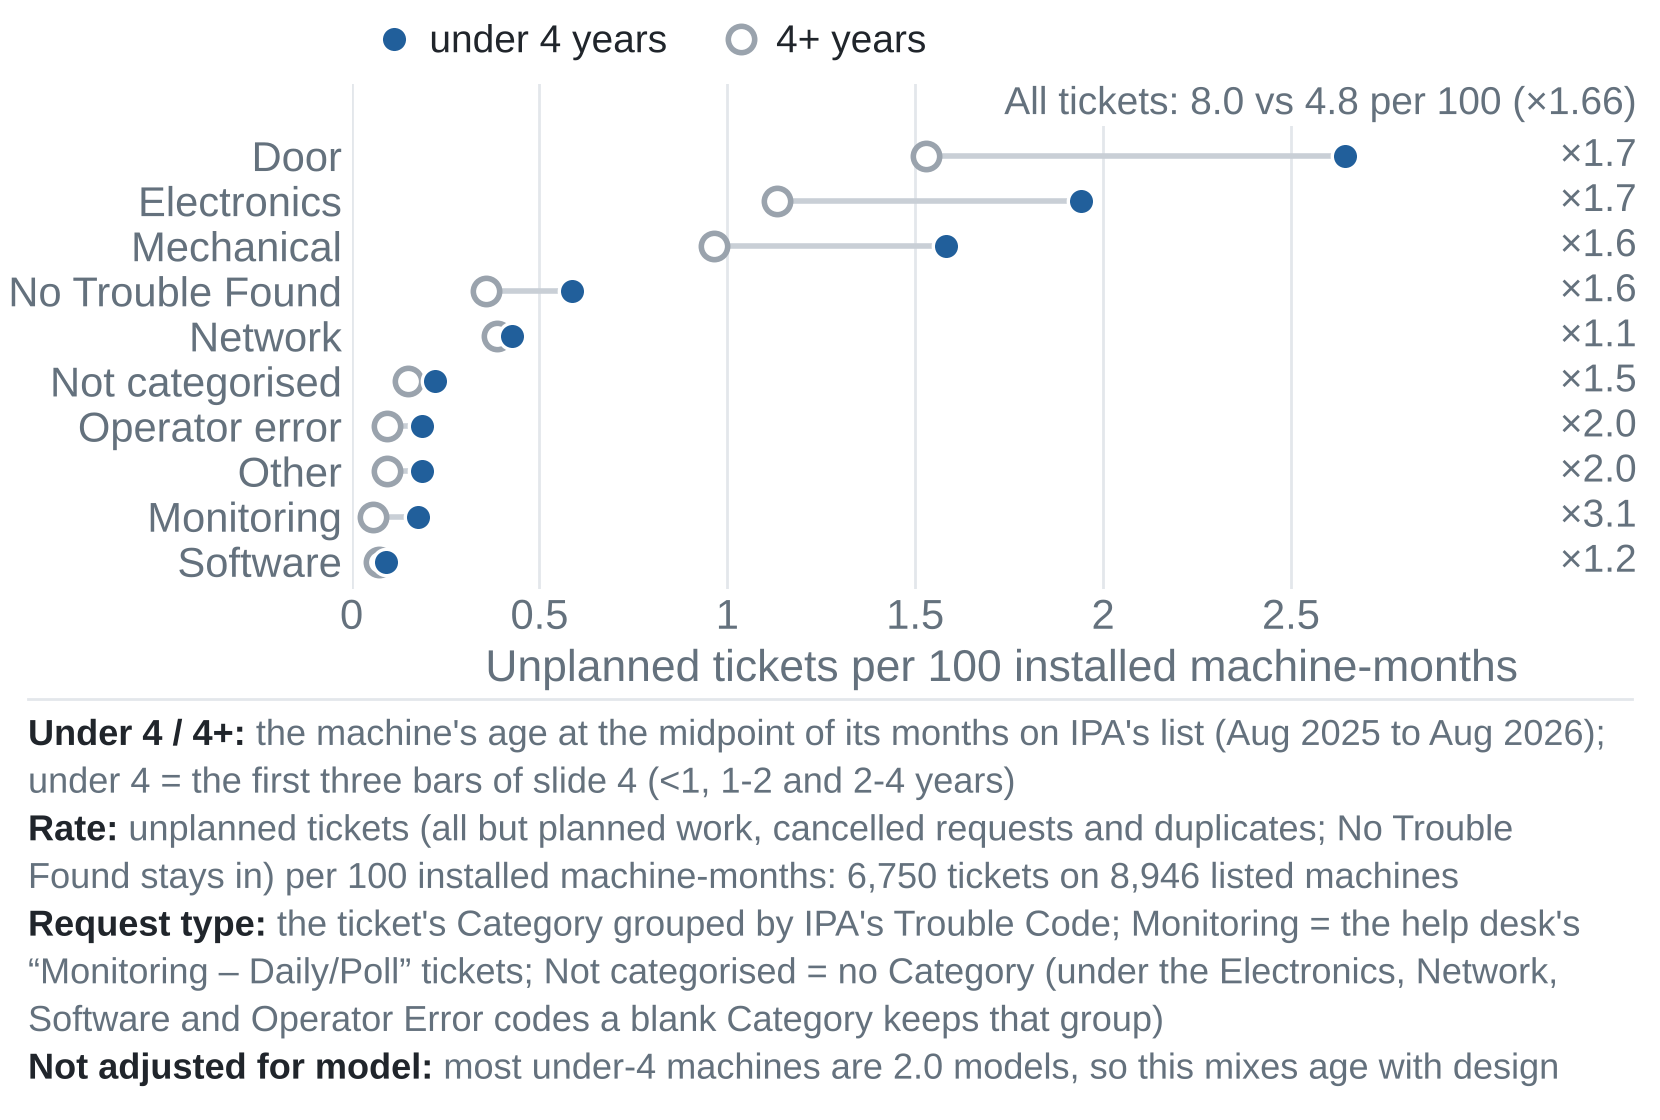
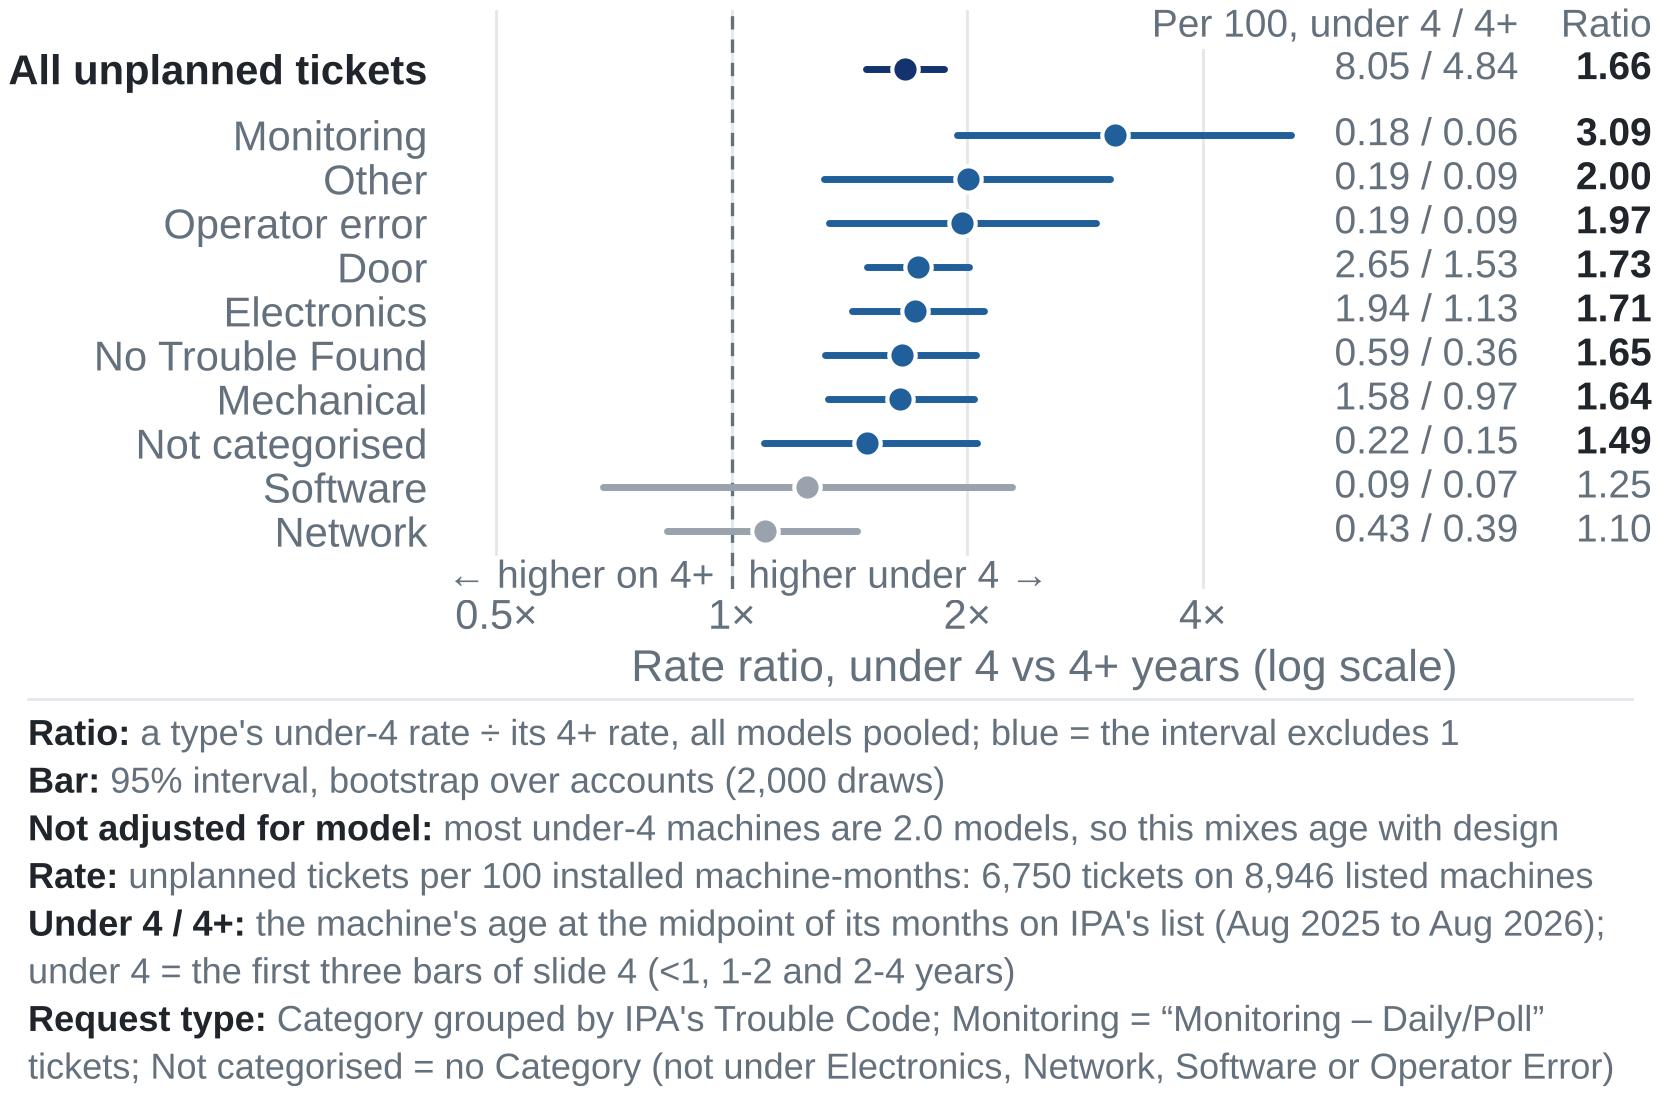
sl_18 (slide 4a, left): rate ratios in the dashed-line layout of the other comparison charts
IPA asked for slide 4a's first chart to match the deck's other comparison charts (sl_19, sl_20, sl_21, sl_23). It
now plots each request type's crude rate ratio, under-4 rate over 4+ rate with all models pooled, as a dot with its
95% account-bootstrap interval. A dashed line marks 1x, the x axis is log scale and a value column sits on the right,
as in sl_19. An 'All unplanned tickets' row (1.66) sits on top. Blue marks an interval that excludes 1; Network and
Software stay gray. The two rates per 100 stay in a column beside the ratio. Every plotted value is checked against
ag_type_rates.csv (120 checks).

followup_terms.py: a new 'rate_ratio_crude' term; 'rate' and 'request_group', used only by sl_18, are shortened so
the definitions fit. docs/10: the chart table's row for sl_18.

Claude-Session: https://claude.ai/code/session_01XBD7pXL4msNy4bnuJzjzhZ

Changed region(s): [[0.0, 0.0, 1.0, 0.9688], [0.0, 0.0, 0.3994, 0.5625], [0.2765, 0.25, 0.3687, 0.3125]]

diff --git a/viz/slides/sl_18_age_type_rates.py b/viz/slides/sl_18_age_type_rates.py
@@ -1,10 +1,13 @@
 #!/usr/bin/env python3
 """Slide chart 18 (follow-up to slide 4): unplanned-ticket rates by request type, machines under 4 vs 4+ years.
 
-Rate per 100 installed machine-months by request group and age group (docs/09 §4 A1), descriptive and not adjusted
-for model: one row per request group, sorted by the under-4 rate, with the 4+ rate as a gray ring, the under-4 rate
-as a blue dot, and the crude rate ratio (under 4 ÷ 4+) in the right-hand column. The note gives all unplanned
-tickets (the 'all' row).
+The crude rate ratio by request group (docs/09 §4 A1): a group's unplanned tickets per 100 installed machine-months
+on under-4 machines ÷ the same rate on 4+ machines, all models pooled (descriptive, not adjusted for model), with its
+95% account-bootstrap interval. Drawn in the layout of the other comparison charts (sl_19, sl_20): one dot and bar per
+row on a log scale, a dashed line at 1 (no difference) and the numbers on the right. All unplanned tickets sit on
+top, set apart by a gap, then the ten groups by ratio, highest first. Blue = the interval excludes 1, gray = it
+includes 1; the All row in navy. The right-hand columns give the two rates (Per 100, under 4 / 4+) and the ratio,
+bold where the interval excludes 1.
 
 Input:  verification/outputs/followups/ag_type_rates.csv, followups_summary.json
 Output: viz/figures/slides/sl_18_age_type_rates.png (half card, tall)
@@ -16,38 +19,46 @@ from pathlib import Path
 sys.path.insert(0, str(Path(__file__).resolve().parent))
 import numpy as np  # noqa: E402
 import pandas as pd  # noqa: E402
-from matplotlib.lines import Line2D  # noqa: E402
+from matplotlib.colors import to_rgba  # noqa: E402
+from matplotlib.text import Text  # noqa: E402
+from matplotlib.transforms import offset_copy  # noqa: E402
 
 import deck_style as S  # noqa: E402
 import followup_terms as T  # noqa: E402
 
 PNG = 'sl_18_age_type_rates.png'
-TERMS = ['under4', 'rate', 'request_group', 'crude']
-DOT = 90  # marker area (pt^2): about 9.5 pt across
+TERMS = ['rate_ratio_crude', 'interval', 'crude', 'rate', 'under4', 'request_group']
+ALL = 'All unplanned tickets'
+GAP = 0.5                  # extra space between the All row and the groups (rows)
+X_LO, X_HI = 0.42, 15      # x limits (log scale); the value columns sit right of every bar
+RATES_AT = -48             # right edge of the Per 100 column, in points from the axes' right edge (Ratio: the edge)
+TICKS = [0.5, 1, 2, 4]
+PIN_U4 = 'A1: under-4 rate per 100 (slide 4: 3,629 / 45,103.38)'
+PIN_P4 = 'A1: 4+ rate per 100 (slide 4: 3,121 / 64,517.91)'
 
 
-def ratio_text(v, nd=1):
-    return f'×{v:.{nd}f}'
+def excludes_one(lo, hi):
+    return lo > 1 or hi < 1
 
 
 def plot(out_dir=S.FIG_DIR):
     t = pd.read_csv(T.FU / 'ag_type_rates.csv')
-    # Highest under-4 rate at the top (y = row index, so the highest comes last); ties broken by name, A at the top.
-    d = (t[t.level == 'group'].sort_values(['under4_rate_per_100', 'type'], ascending=[True, False])
-         .reset_index(drop=True))
+    # Highest ratio at the top (y = row index, so the highest comes last); ties broken by name, A at the top.
+    d = t[t.level == 'group'].sort_values(['rate_ratio', 'type'], ascending=[True, False]).reset_index(drop=True)
     a = t[t.level == 'all'].iloc[0]
     s = T.summary()
     pins = {c['check']: c['actual'] for c in s['checks']['list']}
     S.check('sl_18 ten request groups', 10, len(d))
     S.check('sl_18 the groups are the summary\'s ten', 1, int(sorted(d.type) == sorted(s['definitions']['groups'])))
+    S.check('sl_18 one all row', 1, int((t.level == 'all').sum() == 1 and a.type == ALL))
     S.check('sl_18 groups sum to the all row, under 4', a.under4_tickets, d.under4_tickets.sum())
     S.check('sl_18 groups sum to the all row, 4+', a.plus4_tickets, d.plus4_tickets.sum())
     S.check('sl_18 every row on the same months, under 4', 0, float(np.ptp(t.under4_months)), 1e-6)
     S.check('sl_18 every row on the same months, 4+', 0, float(np.ptp(t.plus4_months)), 1e-6)
 
-    # The definition's numbers: 6,750 tickets on 8,946 listed machines.
-    rate_text = T.terms()['rate'][1]
-    m = re.search(r'([\d,]+) tickets on ([\d,]+) listed machines', rate_text)
+    # The definitions' numbers: 6,750 tickets on 8,946 listed machines; the bands and the period; 2,000 draws.
+    terms = T.terms()
+    m = re.search(r'([\d,]+) tickets on ([\d,]+) listed machines', terms['rate'][1])
     S.check('sl_18 definition: 6,750 tickets = the all row', a.under4_tickets + a.plus4_tickets,
             int(m.group(1).replace(',', '')))
     S.check('sl_18 definition: 6,750 tickets = the pinned fx_summary', pins['pin fx_summary tickets'],
@@ -56,57 +67,138 @@ def plot(out_dir=S.FIG_DIR):
             int(m.group(2).replace(',', '')))
     S.check('sl_18 definition: under 4 = the young bands <1, 1-2, 2-4', 1,
             int(s['definitions']['young_bands'] == ['<1', '1-2', '2-4']
-                and '(<1, 1-2 and 2-4 years)' in T.terms()['under4'][1]))
+                and '(<1, 1-2 and 2-4 years)' in terms['under4'][1]))
     S.check('sl_18 definition: Aug 2025 to Aug 2026 = the period', 1,
             int(s['definitions']['period'] == ['2025-08-01', '2026-08-31']
-                and '(Aug 2025 to Aug 2026)' in T.terms()['under4'][1]))
-
-    # The note: all unplanned tickets, recomputed from tickets and months.
-    u_all = 100 * a.under4_tickets / a.under4_months
-    p_all = 100 * a.plus4_tickets / a.plus4_months
-    note = f'All tickets: {u_all:.1f} vs {p_all:.1f} per 100 ({ratio_text(u_all / p_all, 2)})'
-    S.check('sl_18 note: all tickets under 4 (8.0)', u_all, float(note.split()[2]), 0.05)
-    S.check('sl_18 note: all tickets 4+ (4.8)', p_all, float(note.split()[4]), 0.05)
-    S.check('sl_18 note: rate ratio (x1.66)', u_all / p_all, float(note.split('×')[1].rstrip(')')), 0.005)
-    S.check('sl_18 note: under-4 rate = the CSV', u_all, a.under4_rate_per_100, 1e-9)
-    S.check('sl_18 note: 4+ rate = the CSV', p_all, a.plus4_rate_per_100, 1e-9)
-    S.check('sl_18 note: ratio = the CSV', u_all / p_all, a.rate_ratio, 1e-9)
+                and '(Aug 2025 to Aug 2026)' in terms['under4'][1]))
+    S.check('sl_18 definition: 2,000 bootstrap draws', s['n_boot'],
+            int(re.search(r'\(([\d,]+) draws\)', terms['interval'][1]).group(1).replace(',', '')))
+    S.check('sl_18 definition: the colour rule as drawn (blue = the interval excludes 1)', 1,
+            int('blue = the interval excludes 1' in terms['rate_ratio_crude'][1]))
 
     fig, ax = S.figure(S.HALF_TALL)
+    fig.set_dpi(S.DPI)                           # the layout checks measure in output pixels
     n = len(d)
-    XV = 3.42                                    # the value column (right-aligned)
-    for i, r in d.iterrows():
+    y_all = n + GAP
+    rows = [(i, r, False) for i, r in d.iterrows()] + [(y_all, a, True)]
+    yax = ax.get_yaxis_transform()               # x in axes fractions, y in data: the Ratio column at x = 1
+    rax = offset_copy(yax, fig=fig, x=RATES_AT, units='points')   # the Per 100 column
+    values = []                                  # (row type, [its value texts])
+    for y, r, is_all in rows:
         u = 100 * r.under4_tickets / r.under4_months
         p = 100 * r.plus4_tickets / r.plus4_months
+        ratio = u / p
         S.check(f'sl_18 {r.type} under-4 rate = 100 x tickets / months', u, r.under4_rate_per_100, 1e-9)
         S.check(f'sl_18 {r.type} 4+ rate = 100 x tickets / months', p, r.plus4_rate_per_100, 1e-9)
-        S.check(f'sl_18 {r.type} rate ratio = the CSV', u / p, r.rate_ratio, 1e-9)
-        label = ratio_text(u / p)
-        S.check(f'sl_18 {r.type} label {label}', u / p, float(label[1:]), 0.05)
-        ax.plot([p, u], [i, i], color=S.GRAY_LIGHT, lw=2, solid_capstyle='butt', zorder=1)
-        ax.scatter(p, i, s=DOT, facecolor=S.WHITE, edgecolor=S.GRAY, linewidth=2, zorder=2)
-        ax.scatter(u, i, s=DOT, color=S.BLUE, edgecolor=S.WHITE, linewidth=1.2, zorder=3)
-        ax.text(XV, i, label, va='center', ha='right', fontsize=S.SMALL, color=S.INK2)
-    S.check('sl_18 rows sorted by the under-4 rate', 1, int(d.under4_rate_per_100.is_monotonic_increasing))
-    S.check('sl_18 every mark left of the value column (below 3)', 1,
-            int(d[['under4_rate_per_100', 'plus4_rate_per_100']].max().max() < 3))
+        S.check(f'sl_18 {r.type} rate ratio = the CSV', ratio, r.rate_ratio, 1e-9)
+        S.check(f'sl_18 {r.type} interval contains the estimate', 1, int(r.rate_ratio_lo <= ratio <= r.rate_ratio_hi))
+        S.check(f'sl_18 {r.type} interval inside the axes ({X_LO} to {X_HI})', 1,
+                int(X_LO < r.rate_ratio_lo and r.rate_ratio_hi < X_HI))
+        sig = excludes_one(r.rate_ratio_lo, r.rate_ratio_hi)
+        colour = S.NAVY if is_all else S.BLUE if sig else S.GRAY
+        ax.plot([r.rate_ratio_lo, r.rate_ratio_hi], [y, y], color=colour, lw=2.5, solid_capstyle='round', zorder=2,
+                gid=r.type)
+        ax.scatter(ratio, y, s=90, color=colour, zorder=3, edgecolor=S.WHITE, linewidth=1.5, gid=r.type)
+        label = f'{ratio:.2f}'
+        rates = f'{u:.2f} / {p:.2f}'
+        S.check(f'sl_18 {r.type} label {label}', ratio, float(label), 0.005)
+        S.check(f'sl_18 {r.type} label {rates}: under 4', u, float(rates.split(' / ')[0]), 0.005)
+        S.check(f'sl_18 {r.type} label {rates}: 4+', p, float(rates.split(' / ')[1]), 0.005)
+        values.append((r.type, [
+            ax.text(1, y, label, transform=yax, va='center', ha='right', fontsize=S.SMALL,
+                    color=S.INK if sig else S.INK2, weight='bold' if sig else 'normal'),
+            ax.text(1, y, rates, transform=rax, va='center', ha='right', fontsize=S.SMALL, color=S.INK2)]))
 
-    ax.text(XV, n - 1 + 1.15, note, ha='right', va='center', fontsize=S.SMALL, color=S.INK2,
-            bbox={'boxstyle': 'square,pad=0.1', 'facecolor': S.WHITE, 'edgecolor': 'none'})  # masks the grid
-    ax.set_xlim(0, XV + 0.04)
-    ax.set_xticks([0, 0.5, 1, 1.5, 2, 2.5])
-    ax.set_xticklabels(['0', '0.5', '1', '1.5', '2', '2.5'])
-    ax.set_yticks(np.arange(n))
-    ax.set_yticklabels(d.type)
-    ax.set_ylim(-0.6, n - 1 + 1.6)
+    # The All row: the CSV's own numbers, and slide 4's (pinned in followups.py).
+    S.check('sl_18 all row: 6,750 tickets', 6750, a.under4_tickets + a.plus4_tickets)
+    S.check('sl_18 all row: under-4 rate = slide 4 (8.05)', pins[PIN_U4], a.under4_rate_per_100, 1e-5)
+    S.check('sl_18 all row: 4+ rate = slide 4 (4.84)', pins[PIN_P4], a.plus4_rate_per_100, 1e-5)
+    S.check('sl_18 all row: rate ratio = slide 4 (1.66)', pins[PIN_U4] / pins[PIN_P4], a.rate_ratio, 1e-5)
+    # Sort order: highest ratio at the top, the All row above every group.
+    S.check('sl_18 rows sorted by the rate ratio, highest at the top', 1, int(d.rate_ratio.is_monotonic_increasing))
+    S.check('sl_18 the All row above the groups', 1, int(y_all > n - 1))
+    # What was drawn, read back: each bar spans its CSV interval and each dot sits at its CSV ratio, in its row.
+    csv = {r.type: (y, r) for y, r, _ in rows}
+    bars = {ln.get_gid(): ln for ln in ax.lines if ln.get_gid()}
+    dots = {c.get_gid(): c for c in ax.collections if c.get_gid()}
+    S.check('sl_18 drawn: one bar and one dot per row', 1, int(sorted(bars) == sorted(dots) == sorted(csv)))
+    S.check('sl_18 drawn: bars = the CSV intervals, in their rows', 1,
+            int(all(np.allclose(bars[k].get_xdata(), [r.rate_ratio_lo, r.rate_ratio_hi], rtol=0, atol=1e-12)
+                    and np.allclose(bars[k].get_ydata(), [y, y]) for k, (y, r) in csv.items())))
+    S.check('sl_18 drawn: dots = the CSV ratios, in their rows', 1,
+            int(all(np.allclose(dots[k].get_offsets(), [[r.rate_ratio, y]], rtol=0, atol=1e-9)
+                    for k, (y, r) in csv.items())))
+    # Colour rule, read back from the drawn bars and dots: blue = the interval excludes 1, gray = it includes 1, the
+    # All row navy.
+    rule = {r.type: S.BLUE if excludes_one(r.rate_ratio_lo, r.rate_ratio_hi) else S.GRAY for _, r in d.iterrows()}
+    rule[ALL] = S.NAVY
+    S.check('sl_18 colour rule: every bar coloured by its interval', 1,
+            int({k: ln.get_color() for k, ln in bars.items()} == rule))
+    S.check('sl_18 colour rule: every dot coloured like its bar', 1,
+            int(all(np.allclose(dots[k].get_facecolor()[0], to_rgba(v)) for k, v in rule.items())))
+    S.check('sl_18 colour rule: Network and Software include 1', 1,
+            int(sorted(k for k, v in rule.items() if v == S.GRAY) == ['Network', 'Software']))
+    S.check('sl_18 colour rule: bold values = blue rows and the All row', 1,
+            int(all((texts[0].get_fontweight() == 'bold') == (rule[k] != S.GRAY) for k, texts in values)))
+
+    ax.axvline(1, color=S.INK2, lw=1.2, ls=(0, (4, 3)), zorder=1)
+    ax.set_xscale('log')
+    ax.set_xticks(TICKS)
+    ax.set_xticklabels([f'{v:g}×' for v in TICKS])
+    ax.set_xlim(X_LO, X_HI)
+    mask = {'boxstyle': 'square,pad=0.1', 'facecolor': S.WHITE, 'edgecolor': 'none'}  # hides the grid behind the text
+    head = [ax.text(1, y_all + 0.55, 'Per 100, under 4 / 4+', transform=rax, ha='right', va='bottom',
+                    fontsize=S.SMALL, color=S.INK2, bbox=mask),
+            ax.text(1, y_all + 0.55, 'Ratio', transform=yax, ha='right', va='bottom', fontsize=S.SMALL,
+                    color=S.INK2)]
+    ax.set_yticks(list(range(n)) + [y_all])
+    ax.set_yticklabels(list(d.type) + [ALL])
+    lab_all = ax.get_yticklabels()[-1]
+    lab_all.set_fontweight('bold')
+    lab_all.set_color(S.INK)
+    ax.set_ylim(-1.3, y_all + 1.35)
     S.style_axes(ax, grid='x', baseline=None)
-    ax.set_xlabel('Unplanned tickets per 100 installed machine-months')
-    handles = [Line2D([], [], ls='', marker='o', ms=9.5, mfc=S.BLUE, mec=S.WHITE, mew=1.2, label='under 4 years'),
-               Line2D([], [], ls='', marker='o', ms=9.5, mfc=S.WHITE, mec=S.GRAY, mew=2, label='4+ years')]
-    ax.legend(handles=handles, loc='lower left', bbox_to_anchor=(0, 1.0), ncol=2, handlelength=1.0,
-              handletextpad=0.4, columnspacing=1.4, borderaxespad=0.2, fontsize=S.SMALL)
+    ax.set_xlabel('Rate ratio, under 4 vs 4+ years (log scale)')
+    notes = [ax.text(0.95, -1.05, '← higher on 4+', ha='right', va='center', fontsize=S.SMALL, color=S.INK2,
+                     bbox=mask),
+             ax.text(1.05, -1.05, 'higher under 4 →', ha='left', va='center', fontsize=S.SMALL, color=S.INK2,
+                     bbox=mask)]
     S.definitions(fig, T.items(TERMS))
+    layout_checks(fig, ax, bars, dots, values, head, notes)
     return [S.save(fig, Path(out_dir) / PNG)]
+
+
+def layout_checks(fig, ax, bars, dots, values, head, notes):
+    """Nothing overlaps or leaves the image: each row's numbers right of every bar and dot, no bar or dot under the
+    header or the direction note, no two texts touching, every text inside the image (output pixels)."""
+    fig.canvas.draw()
+    r = fig.canvas.get_renderer()
+    px = S.DPI / 72                              # pixels per point
+    marks = []                                   # each bar and dot as a pixel box (round caps and white edges included)
+    for k, ln in bars.items():
+        (x0, y0), (x1, _) = ax.transData.transform(np.column_stack(ln.get_data()))
+        cap = ln.get_linewidth() / 2 * px
+        marks.append((x0 - cap, y0 - cap, x1 + cap, y0 + cap))
+        (cx, cy), = ax.transData.transform(dots[k].get_offsets())
+        rad = (np.sqrt(dots[k].get_sizes()[0]) / 2 + dots[k].get_linewidths()[0] / 2) * px
+        marks.append((cx - rad, cy - rad, cx + rad, cy + rad))
+    right = max(mk[2] for mk in marks)
+    left_values = min(Text.get_window_extent(x, r).x0 for _, texts in values for x in texts)
+    S.check('sl_18 layout: every number right of every bar and dot', 1, int(right + 4 * px < left_values))
+
+    def hit(box):
+        return any(box.x0 < mk[2] and mk[0] < box.x1 and box.y0 < mk[3] and mk[1] < box.y1 for mk in marks)
+    S.check('sl_18 layout: bars or dots under the header or the direction note', 0,
+            sum(hit(Text.get_window_extent(x, r)) for x in head + notes))
+    texts = [x for _, ts in values for x in ts] + head + notes + [
+        lab for lab in ax.get_yticklabels() + ax.get_xticklabels() + [ax.xaxis.label] if lab.get_text()]
+    boxes = [Text.get_window_extent(x, r) for x in texts]
+    S.check('sl_18 layout: texts touching', 0,
+            sum(boxes[i].overlaps(boxes[j]) for i in range(len(boxes)) for j in range(i + 1, len(boxes))))
+    every = [x for x in fig.findobj(Text) if x.get_visible() and x.get_text()]
+    S.check('sl_18 layout: texts outside the image', 0,
+            sum(not (b.x0 >= 0 and b.y0 >= 0 and b.x1 <= fig.bbox.x1 and b.y1 <= fig.bbox.y1)
+                for b in (Text.get_window_extent(x, r) for x in every)))
 
 
 if __name__ == '__main__':

diff --git a/viz/slides/followup_terms.py b/viz/slides/followup_terms.py
@@ -114,12 +114,13 @@ def terms():
     return {
         'under4': ('Under 4 / 4+', "the machine's age at the midpoint of its months on IPA's list (Aug 2025 to Aug "
                    '2026); under 4 = the first three bars of slide 4 (<1, 1-2 and 2-4 years)'),
-        'rate': ('Rate', 'unplanned tickets (all but planned work, cancelled requests and duplicates; No Trouble Found '
-                 'stays in) per 100 installed machine-months: 6,750 tickets on 8,946 listed machines'),
-        'request_group': ('Request type', "the ticket's Category grouped by IPA's Trouble Code; Monitoring = the "
-                          "help desk's “Monitoring – Daily/Poll” tickets; Not categorised = no Category (under the "
-                          'Electronics, Network, Software and Operator Error codes a blank Category keeps that group)'),
+        'rate': ('Rate', 'unplanned tickets per 100 installed machine-months: 6,750 tickets on 8,946 listed machines'),
+        'request_group': ('Request type', "Category grouped by IPA's Trouble Code; Monitoring = “Monitoring – "
+                          'Daily/Poll” tickets; Not categorised = no Category (not under Electronics, Network, '
+                          'Software or Operator Error)'),
         'crude': ('Not adjusted for model', 'most under-4 machines are 2.0 models, so this mixes age with design'),
+        'rate_ratio_crude': ('Ratio', "a type's under-4 rate ÷ its 4+ rate, all models pooled; blue = the interval "
+                             'excludes 1'),
         'share_ratio': ('Share ratio', "a type's share of under-4 machines' tickets ÷ its share of 4+ machines' "
                         f"tickets of the same model, pooled over the {len(sup['support_models'])} models with 100+ "
                         f"machine-months in each age group ({100 * sup['under4_share_support']:.0f}% of under-4 and "

diff --git a/docs/10_followups_results.md b/docs/10_followups_results.md
@@ -410,7 +410,7 @@
 
 | Chart | Shows |
 |---|---|
-| sl_18 | Rates by request type, under 4 vs 4+ |
+| sl_18 | Crude rate ratios by group, under 4 vs 4+ (all models pooled), with the two rates per 100 |
 | sl_19 | Same-model share ratios by group |
 | sl_20 | The same by Category |
 | sl_21 | Where the extra tickets come from |
